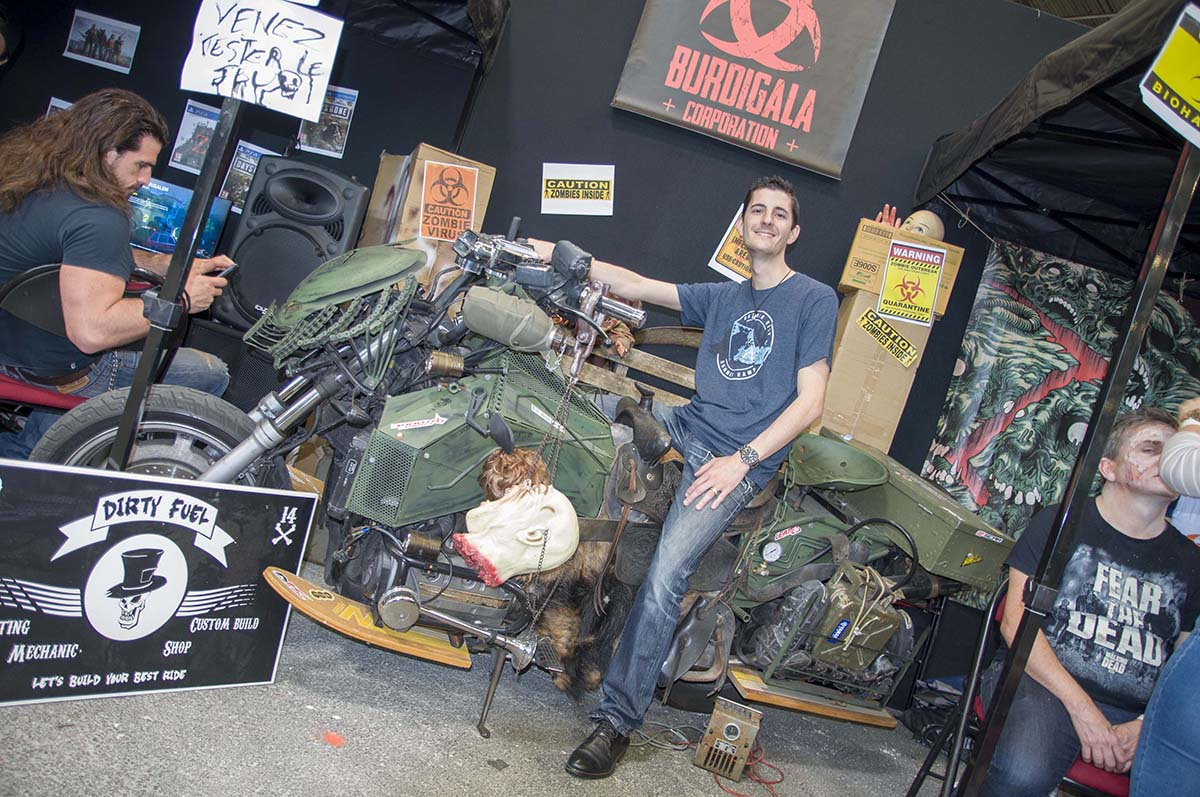
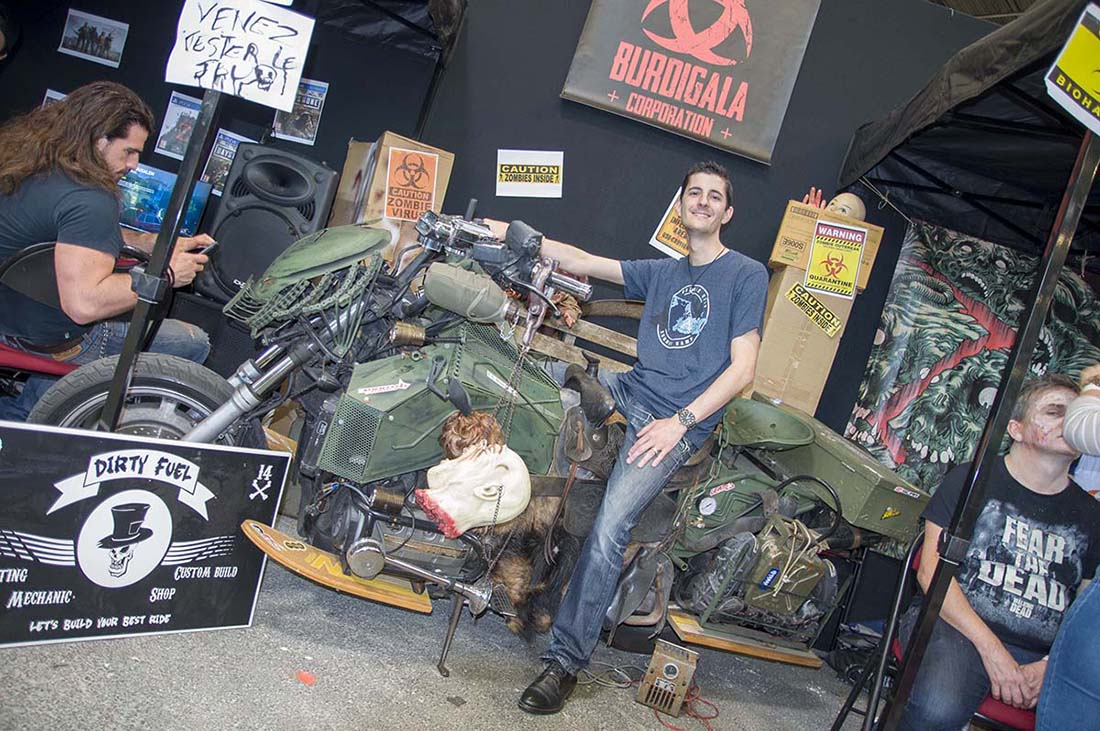
Ajustement taille photos bgf en 1100px

diff --git a/Pages/bgf.html b/Pages/bgf.html
@@ -152,10 +152,10 @@
                         <img src="..\Ressources/Images/BGF/BGF-2019 (7).jpg" class="d-block img-fluid m-auto" alt="Photo du BGF" />
                     </div>
                     <div class="carousel-item">
-                        <img src="..\Ressources/Images/BGF/BGF-2019 (8).jpg" class="d-block img-vertical m-auto" alt="Photo du BGF" />
+                        <img src="..\Ressources/Images/BGF/BGF-2019 (8).jpg" class="d-block img-fluid m-auto" alt="Photo du BGF" />
                     </div>
                     <div class="carousel-item">
-                        <img src="..\Ressources/Images/BGF/BGF-2019 (9).jpg" class="d-block img-vertical m-auto" alt="Photo du BGF" />
+                        <img src="..\Ressources/Images/BGF/BGF-2019 (9).jpg" class="d-block img-fluid m-auto" alt="Photo du BGF" />
                     </div>
                     <div class="carousel-item">
                         <img src="..\Ressources/Images/BGF/BGF-2019 (10).jpg" class="d-block img-fluid m-auto" alt="Photo du BGF" />
@@ -167,7 +167,7 @@
                         <img src="..\Ressources/Images/BGF/BGF-2019 (12).jpg" class="d-block img-fluid m-auto" alt="Photo du BGF" />
                     </div>
                     <div class="carousel-item">
-                        <img src="..\Ressources/Images/BGF/BGF-2019 (13).jpg" class="d-blockimg-fluid img-vertical m-auto" alt="Photo du BGF" />
+                        <img src="..\Ressources/Images/BGF/BGF-2019 (13).jpg" class="d-block img-fluid m-auto" alt="Photo du BGF" />
                     </div>
                     <div class="carousel-item">
                         <img src="..\Ressources/Images/BGF/BGF-2019 (14).jpg" class="d-block img-fluid m-auto" alt="Photo du BGF" />
@@ -182,7 +182,7 @@
                         <img src="..\Ressources/Images/BGF/BGF-2019 (17).jpg" class="d-block img-fluid m-auto" alt="Photo du BGF" />
                     </div>
                     <div class="carousel-item">
-                        <img src="..\Ressources/Images/BGF/BGF-2019 (18).jpg" class="d-block img-fluid img-vertical m-auto" alt="Photo du BGF" />
+                        <img src="..\Ressources/Images/BGF/BGF-2019 (18).jpg" class="d-block img-fluid m-auto" alt="Photo du BGF" />
                     </div>
                 </div>
                 <button class="carousel-control-prev" type="button" data-bs-target="#carouselExampleIndicators" data-bs-slide="prev">

diff --git a/style.css b/style.css
@@ -370,6 +370,11 @@ h2 {
     height: auto;
 }
 
+.img-responsive-bgf {
+    width: 49.83%;
+    height: auto;
+}
+
 
 /* ---------------- */
 /* ---- FOOTER ---- */
